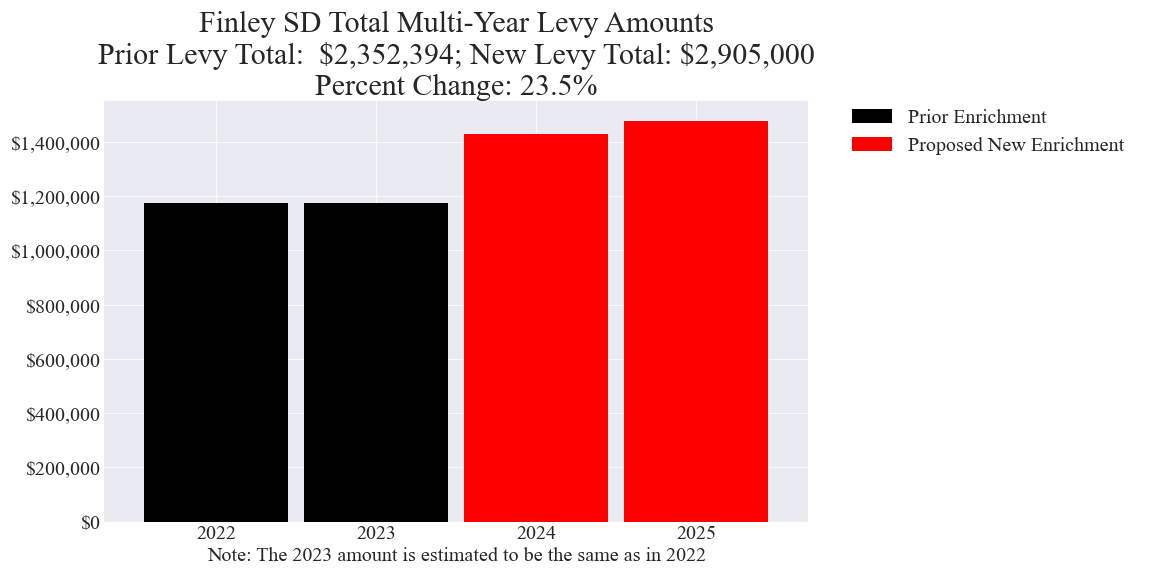
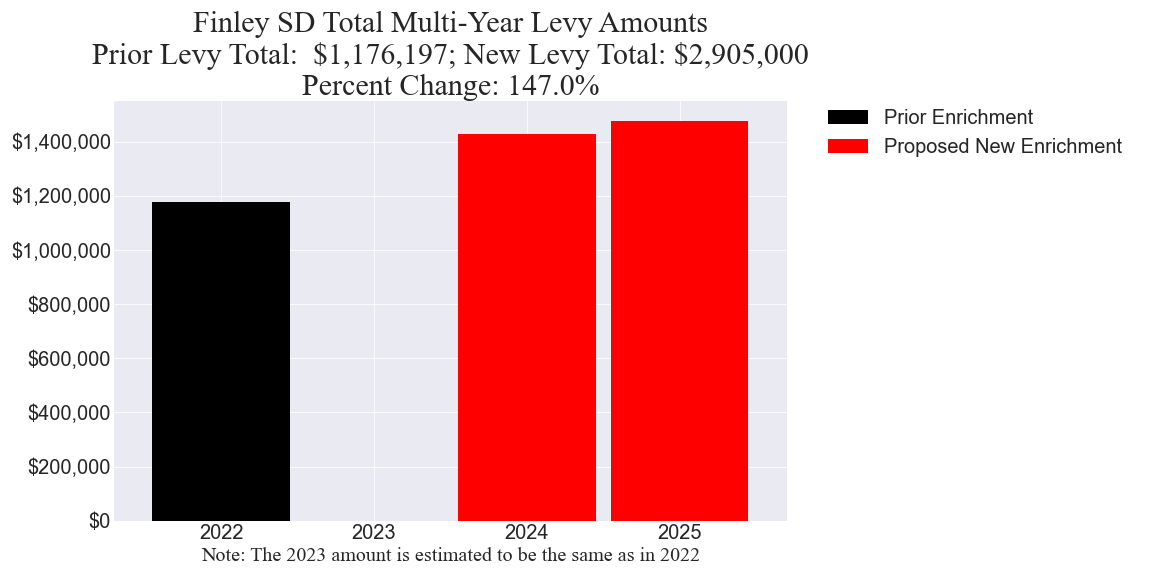
Updated Finley and Kennewick

diff --git a/_includes/cost_estimates/20230214/Kennewick_20230214_Enhanced.html b/_includes/cost_estimates/20230214/Kennewick_20230214_Enhanced.html
@@ -19,7 +19,7 @@
 	totalLevyCostParcel = sampleParcelPOF * totalLevyCost;
 	levyYears = 3.0;
 	averageTotalLevyCostParcel = totalLevyCostParcel / levyYears;
-	totalLevyPriorCost = 52876580.0;
+	totalLevyPriorCost = 34689424;
 	totalLevyPriorCostParcel = sampleParcelPOF * totalLevyPriorCost;
 	averageTotalLevyPriorCostParcel = totalLevyPriorCostParcel / levyYears;
 	// POF Annual Change Percent
@@ -39,7 +39,7 @@
 		data.addRows([
 			['2021', 16502268, 0],
 			['2022', 18187156, 0],
-			['2023', 18187156, 0],
+			['2023', 0, 0],
 			['2024', 0, 23000000],
 			['2025', 0, 23850000],
 			['2026', 0, 24700000],

diff --git a/_includes/cost_estimates/20230214/Finley_20230214_Enhanced.html b/_includes/cost_estimates/20230214/Finley_20230214_Enhanced.html
@@ -19,7 +19,7 @@
 	totalLevyCostParcel = sampleParcelPOF * totalLevyCost;
 	levyYears = 2.0;
 	averageTotalLevyCostParcel = totalLevyCostParcel / levyYears;
-	totalLevyPriorCost = 2352394.0;
+	totalLevyPriorCost = 1176197;
 	totalLevyPriorCostParcel = sampleParcelPOF * totalLevyPriorCost;
 	averageTotalLevyPriorCostParcel = totalLevyPriorCostParcel / levyYears;
 	// POF Annual Change Percent
@@ -38,7 +38,7 @@
 
 		data.addRows([
 			['2022', 1176197, 0],
-			['2023', 1176197, 0],
+			['2023', 0, 0],
 			['2024', 0, 1430000],
 			['2025', 0, 1475000],
 
